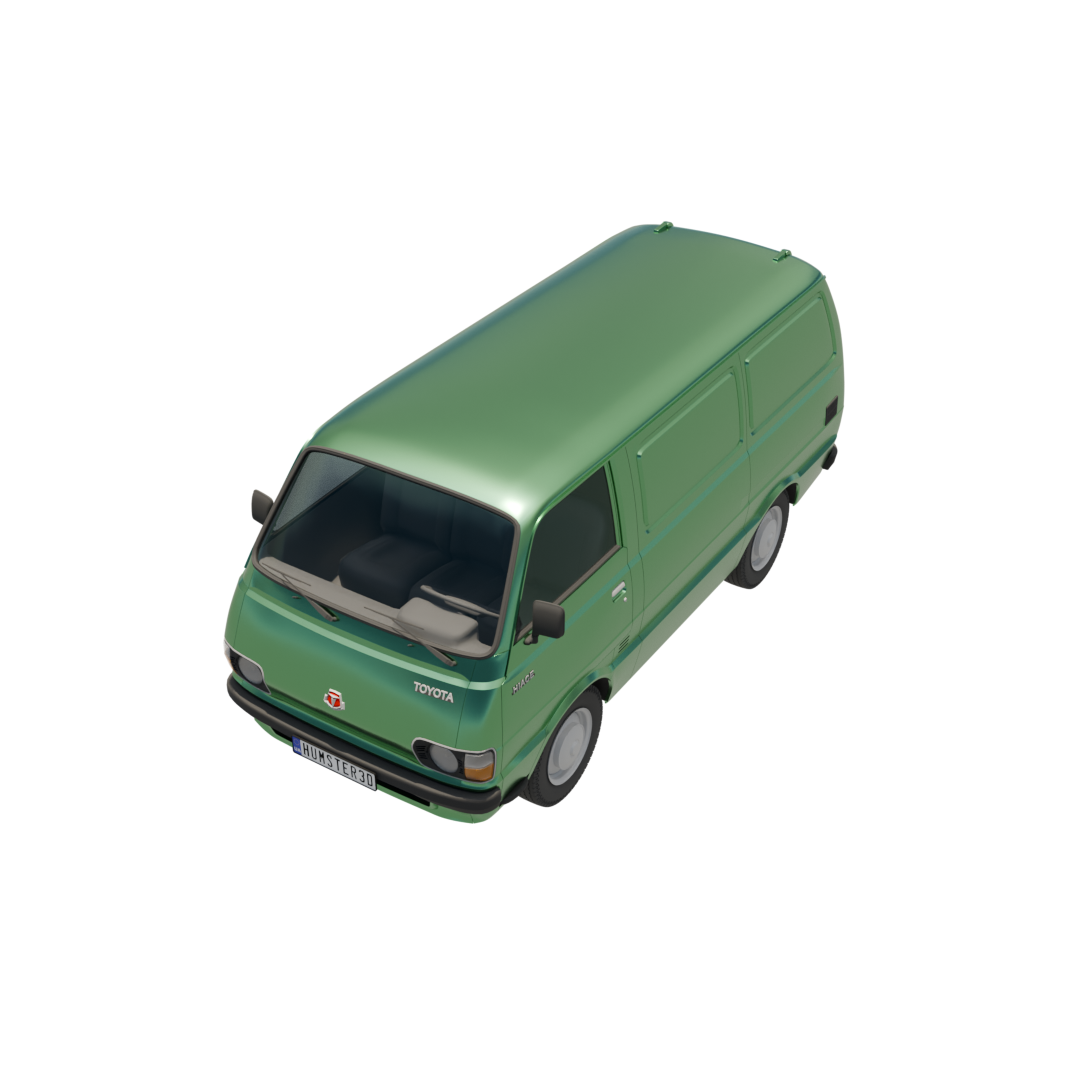
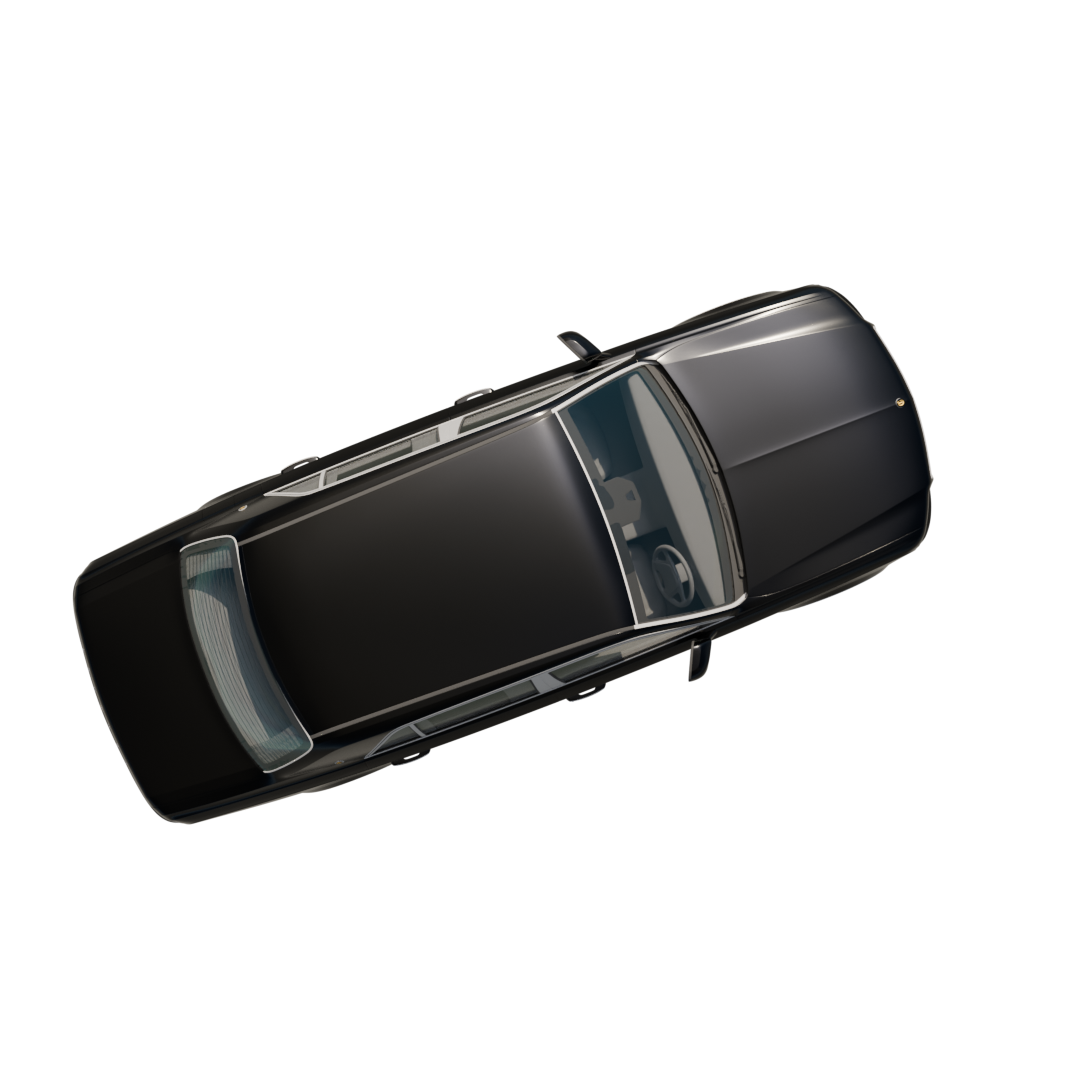
batch_render_iteration

Changed region(s): [[0.0611, 0.1833, 0.8861, 0.7639]]

diff --git a/src/fragmentor/bpy_scripts/blend_loader.py b/src/fragmentor/bpy_scripts/blend_loader.py
@@ -59,13 +59,19 @@ class BlendLoader():
         '''
         file_path = os.path.abspath(file_path)
         # print(f'File path is {file_path}')
+        target_col = bpy.data.collections.get(col_name)
+        if target_col:
+            for o in target_col.all_objects:
+                o.select_set(True)
+            bpy.ops.object.delete()
+            mats = [m for m in bpy.data.materials]
+            print(mats)
+            for m in mats:
+                bpy.data.materials.remove(m, do_unlink=True)
         with bpy.data.libraries.load(file_path) as (data_from, data_to):
             if col_name in data_from.collections:
                 # 以下删除原来的target_col集合，防止重命名等异常发生导致意外错误.
                 if col_name in bpy.data.collections.keys():
-                    target_col = bpy.data.collections.get(col_name)
-                    for o in target_col.all_objects():
-                        bpy.data.objects.remove(o, do_unlink=True)
                     bpy.data.collections.remove(target_col, do_unlink=True)
                 # 添加到本工程文件.
                 data_to.collections.append(col_name)
@@ -106,7 +112,7 @@ class BlendLoader():
             sum_z = 0
             cnt = 0
             for o_target in target_objects:
-                if o_target and o_target.data:
+                if o_target and o_target.type == 'MESH':
                     for v in o_target.data.vertices:
                         co3d = o_target.matrix_world @ v.co
                         sum_x += co3d.x

diff --git a/src/fragmentor/app.py b/src/fragmentor/app.py
@@ -1,3 +1,5 @@
+from datetime import datetime as dt
+
 from utils.config_loarder import ConfigLoader
 from bpy_scripts.blend_loader import BlendLoader
 from utils.task_dispatcher import TaskDispatcher
@@ -17,10 +19,10 @@ class App():
         Initialize before program starts.
         '''
         # 读取参数设置.
-        self.cfl = ConfigLoader()
+        self._cfl = ConfigLoader()
         # 加载默认场景.
-        print( self.cfl.get('paths/blend-folder'))
-        self._bll = BlendLoader().load_blend_file(self.cfl.get('paths/blend-folder') + '/' + 'main.blend')
+        print( self._cfl.get('paths/blend-folder'))
+        self._bll = BlendLoader().load_blend_file(self._cfl.get('paths/blend-folder') + '/' + 'main.blend')
 
 
     def start_event_loop(self):
@@ -33,4 +35,15 @@ class App():
         #     res.append(i)
         # print(res)
         self.tdp = TaskDispatcher()
-        self.tdp.dispatch_one('hao!')
+        start = dt.now()
+        prefix = start.strftime('output_%d-%m-%Y-%H-%M-%S')
+        count = self._cfl.get('experiments/count')
+        idx = 0
+        for i in range(count):
+            self.tdp.dispatch_one(f'{prefix}/img-{i}')
+            print(f'{i + 1} of {count} render finished.')
+            print(f'Sum up to {(dt.now() - start).seconds} seconds elapsed.')
+            idx += 1
+            if idx > 10:
+                self._bll = BlendLoader().load_blend_file(self._cfl.get('paths/blend-folder') + '/' + 'main.blend')
+                idx -= 10

diff --git a/src/fragmentor/utils/task_dispatcher.py b/src/fragmentor/utils/task_dispatcher.py
@@ -25,6 +25,7 @@ class TaskDispatcher():
         # 1. 导入模型
         model_folder = join_paths(self.cfl.get('paths/blend-folder'), self.cfl.get('paths/model-folder'))
         blend_file = self._rdr.get_random_files(model_folder)
+        print(f'Open blend file {blend_file}.')
         if blend_file:
             blend_path = join_paths(model_folder, blend_file)
             self._bll.append_collections(blend_path, 'model')
